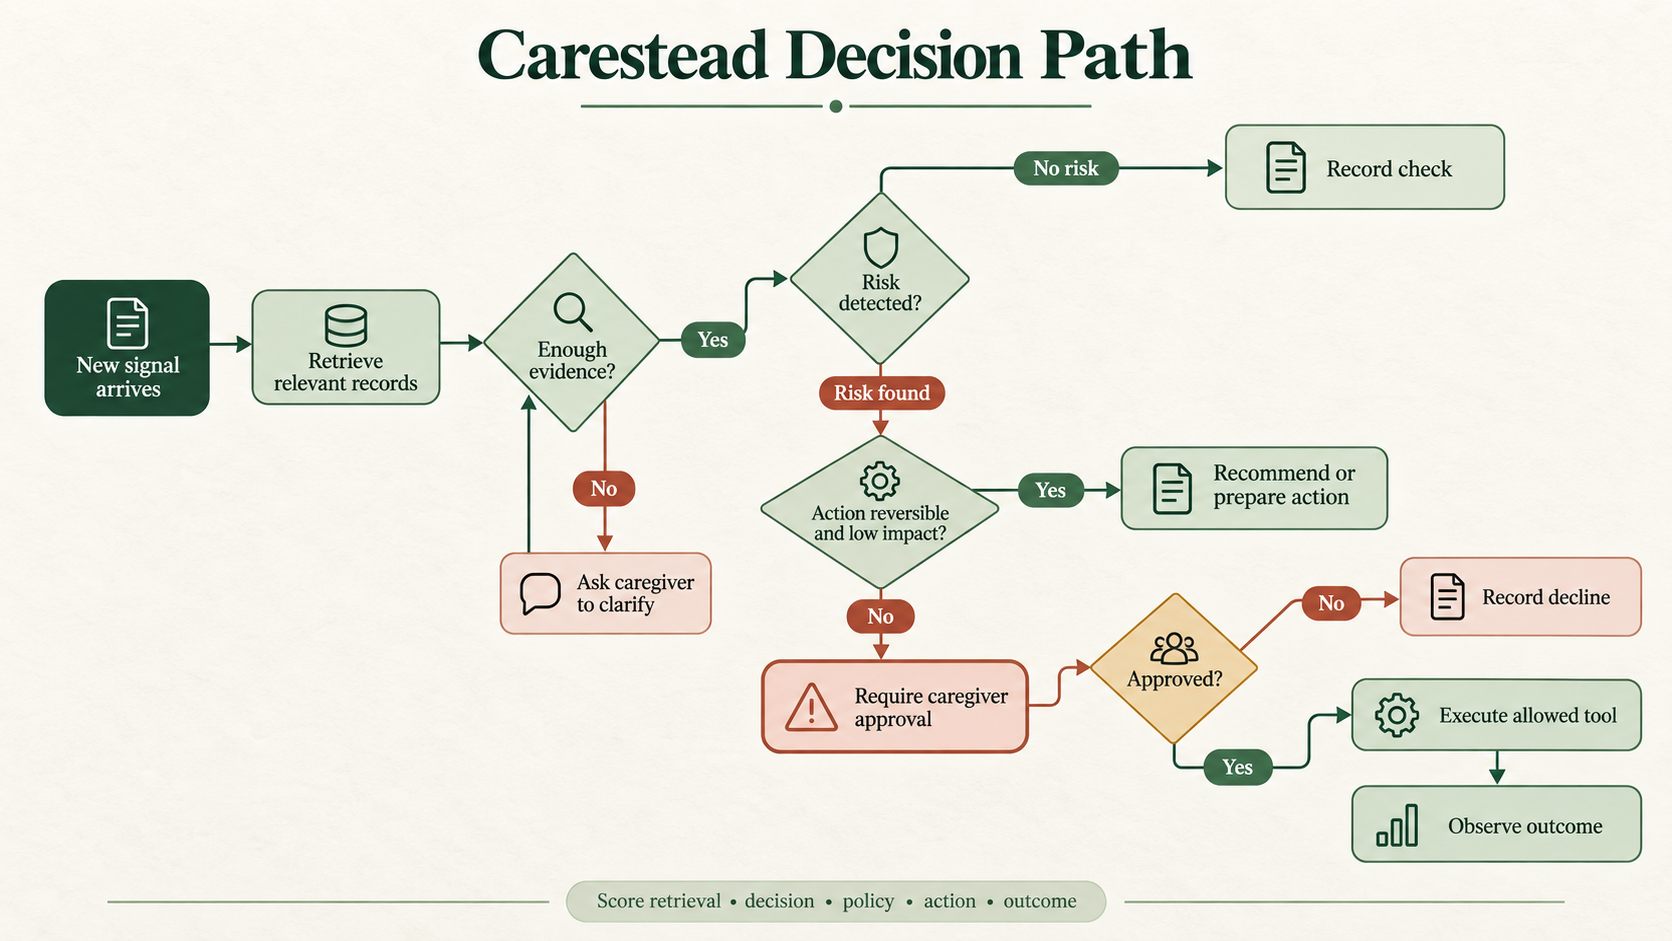
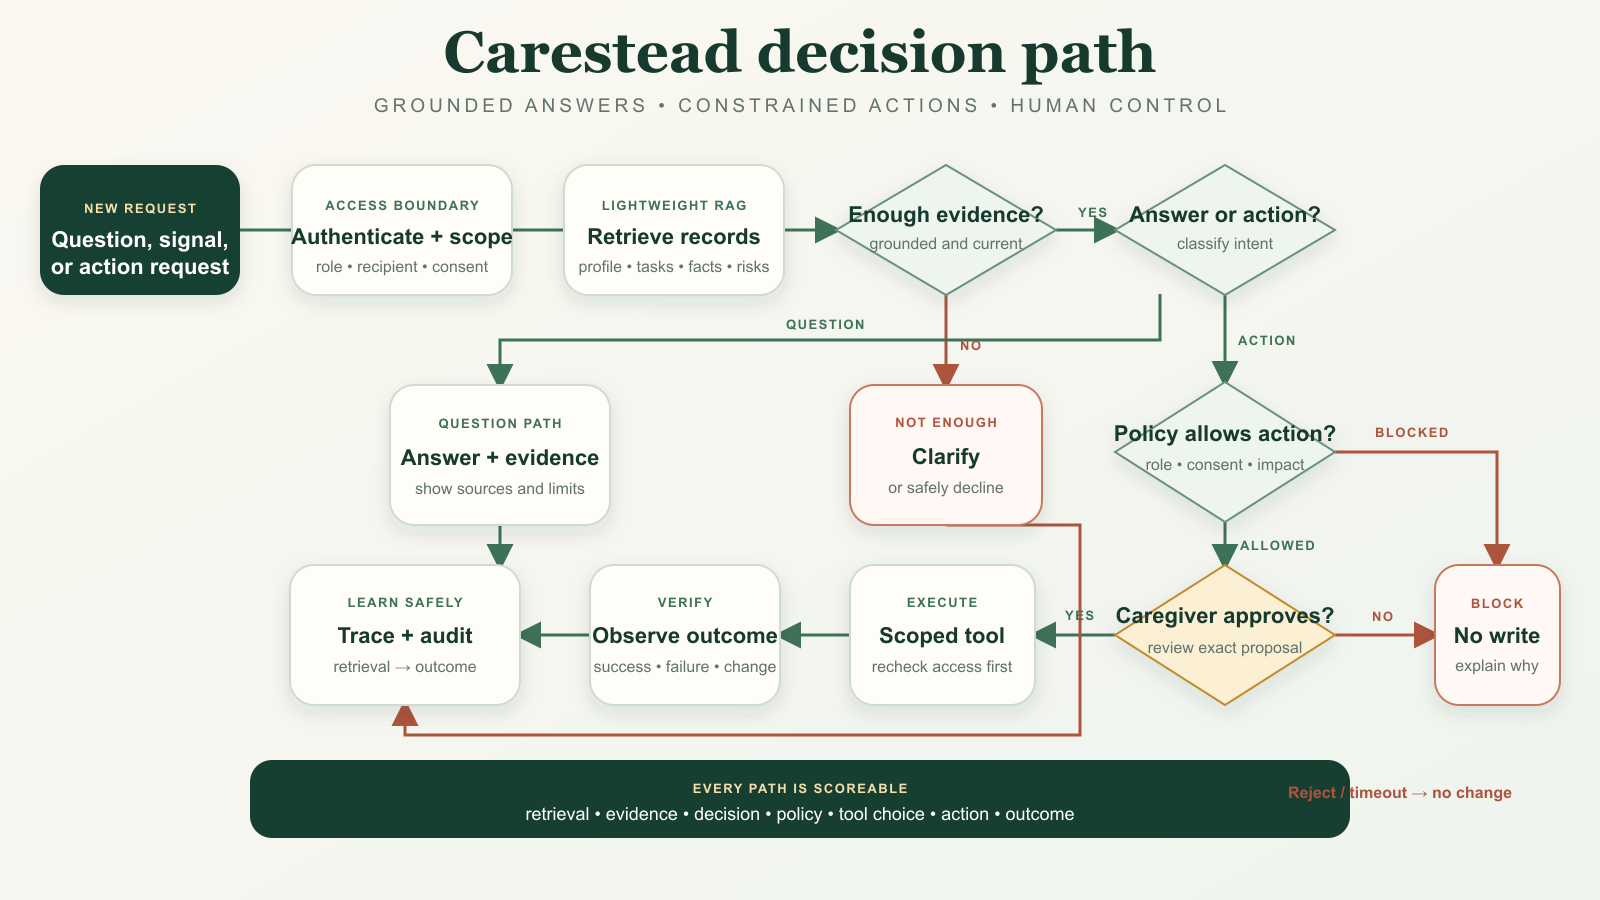
Refresh product documentation visuals

diff --git a/README.md b/README.md
@@ -25,6 +25,8 @@ Carestead is a caregiver cognitive-load agent that monitors a changing care plan
 - Approval-gated chat tools for rescheduling, assignments, responsibilities, care checks, and in-app notifications
 - Browser voice input and spoken replies without retained audio
 
+![Carestead core product features](docs/images/carestead-core-features.png)
+
 ## Architecture
 
 The MVP is a Sites/Vinext React application backed by Cloudflare D1. The agent layer is deliberately deterministic for the initial release: it evaluates structured records with testable rules and keeps each result auditable. No Mem0 service is required. An LLM reasoning adapter can be introduced later behind explicit consent, redaction, and the same approval policy.
@@ -33,26 +35,7 @@ The MVP is a Sites/Vinext React application backed by Cloudflare D1. The agent l
 
 The lightweight RAG layer retrieves relevant tasks, events, and trusted facts directly from the structured care database. Every retrieval is filtered by an authorized `recipient_id`, giving the orchestrator grounded context without introducing a separate vector service for the MVP.
 
-![Carestead system architecture](docs/images/carestead-architecture.png)
-
-```text
-Caregiver dashboard + voice-enabled chat
-       │
-       ▼
-Recipient-scoped retrieval/orchestrator
-       │
-       ├── grounded answer + evidence
-       └── proposed tool ─── human approval gate
-       │
-       ├── care-state risk rules
-       ├── responsibility/calendar/notification tools
-       └── evaluation trace writer
-       │
-       ▼
-Cloudflare D1
-recipients · plans · templates · record scopes
-tasks · events · risks · memories · approvals · traces
-```
+The browser experience, authenticated API boundary, agent orchestration, retrieval, approval policy, tools, durable data, and evaluation loop are shown together above. Questions can return grounded answers immediately; action requests become typed proposals and cross the approval gate before any tool is allowed to write.
 
 ## Key components
 
@@ -74,6 +57,12 @@ tasks · events · risks · memories · approvals · traces
 | Voice controls | Uses supported browser speech recognition and speech synthesis; only the resulting text enters chat history and raw audio is not stored |
 
 The current release uses one care-state agent, not a multi-agent system. Its decision engine is intentionally deterministic so every rule can be tested against known outcomes. A future LLM adapter can assist with reasoning while remaining behind the same retrieval, policy, and approval controls.
+
+## Caregiver user journey
+
+Carestead keeps the workflow centered on a selected care recipient. A caregiver reviews the current state, asks a grounded question by text or voice, inspects the retrieved evidence, and explicitly approves or declines any consequential action. The resulting change and outcome remain visible to the next caregiver through the live handover and audit trail.
+
+![Carestead caregiver user journey](docs/images/carestead-user-journey.png)
 
 ## Care-recipient and reusable-plan model
 
